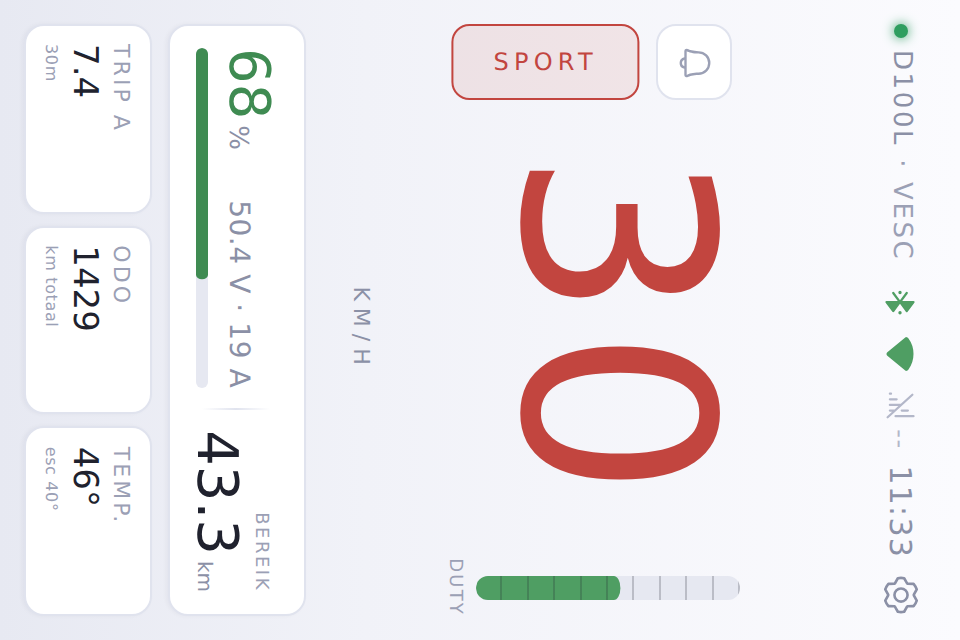
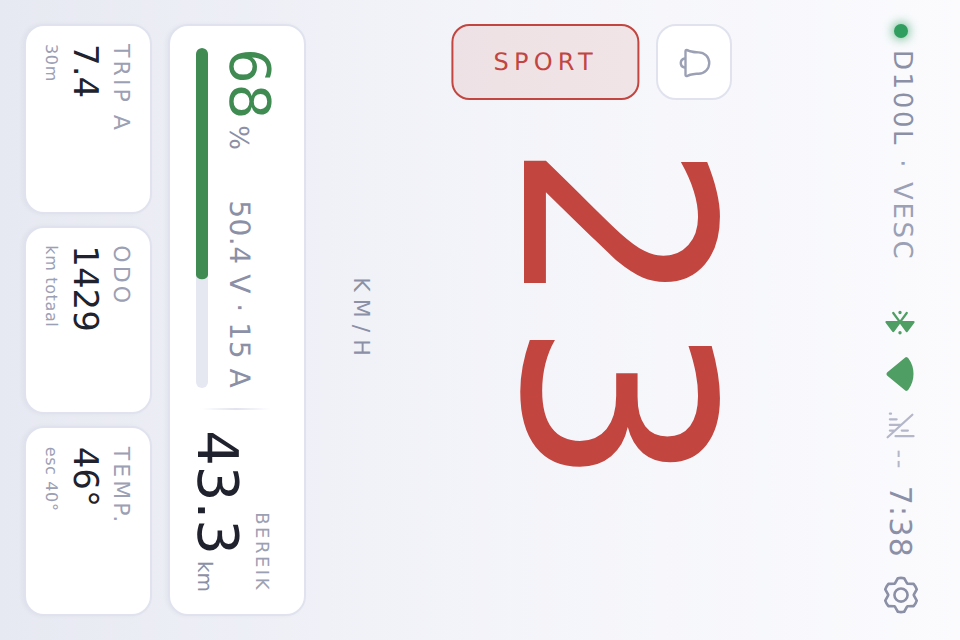
De duty-balk eruit, en knipperen alleen nog als er iets is
Twee dingen die samen het laatste drukke werk van het scherm halen.

De duty-balk is weg. Duty is een kommagetal dat bij élke meting verandert, dus
dat was het enige element dat hoe dan ook 6,7 keer per seconde naar het scherm
schreef — in zijn eentje goed voor de helft van de stijlherberekeningen. De
waarde zei bovendien weinig dat de snelheid niet al zei. Hij staat nog in
/data, mocht hij ooit terug moeten.

Zonder tegenwicht rechts zou het grote cijfer 24 px uit het midden van het
scherm hangen, dus staat de bel-kolom nu absoluut in de linkermarge in plaats
van in de flexrij.

Knipperen gebeurt alleen nog als er iets te melden is: een melding, een lege
accu, een klaarstaande update of een laadbeurt. Is er niets aan de hand, dan
schrijft de timer niets. Het stipje van de VESC knippert helemaal niet meer —
het staat vast groen bij verbinding en rood zonder, en dat zegt hetzelfde. Zo
betekent knipperen weer iets in plaats van dat het altijd aanstaat.

Gemeten met tools/bench.js, tien seconden per situatie:

                    stijl/s   layout/s
  rijden                  2          2   (was 62 en 39)
  met een melding         2          2
  laden                   2          2
  instellingen open       0          0
  stilstaand              0          0

Wat er overblijft is wat er echt verandert: V·A schrijft 1,1 keer per seconde
en de snelheid 0,9. Accu, temperaturen, kilometerstand, trip en bereik zijn
hele getallen en schreven in twintig seconden rijden niets.
[…]

diff --git a/pi/public/theme.css b/pi/public/theme.css
@@ -110,8 +110,18 @@ p{margin:0}
 /* ── rijscherm ───────────────────────────────────────────────────────────── */
 #ride{flex:1;min-height:0;display:flex;flex-direction:column;gap:8px}
 
-#ridemid{flex:1;min-height:0;display:flex;align-items:center;gap:10px}
-#railleft{flex:none;display:flex;flex-direction:column;align-items:center;gap:8px}
+/* De duty-balk stond hier rechts en is weg — hij veranderde als enige bij
+   elke meting en was daarmee het drukste element op het scherm, en de waarde
+   zei weinig dat de snelheid niet al zei. De duty staat nog wel in /data.
+
+   Daarom staat de bel-kolom nu absoluut in de linkermarge in plaats van in de
+   rij: zonder tegenwicht rechts zou het grote cijfer anders 24 px uit het
+   midden van het scherm hangen. */
+#ridemid{flex:1;min-height:0;position:relative;display:flex;align-items:center}
+#railleft{
+  position:absolute;left:0;top:0;bottom:0;z-index:1;
+  display:flex;flex-direction:column;align-items:center;justify-content:center;gap:8px;
+}
 
 #bell,#cruise{
   width:38px;height:38px;flex:none;
@@ -159,24 +169,6 @@ body[data-theme="night"] #modes .mode[data-mode="eco"].on{border-color:#4f9e63;b
 #speed.sport{color:var(--red)}
 #speedunit{margin-top:8px;font-size:11px;letter-spacing:.32em;text-transform:uppercase;color:var(--dim)}
 
-#railright{flex:none;display:flex;flex-direction:column;align-items:center;gap:6px}
-#dutytrack{position:relative;width:12px;height:132px;border-radius:99px;background:var(--track);overflow:hidden}
-/* Schalen, niet meten. Een hoogte in procenten laat de browser opnieuw
-   layouten; een transform gaat langs layout heen. En géén transitie: de
-   waarde komt al ruim zes keer per seconde binnen, dus er valt niets te
-   verzachten — een transitie van een kwart seconde zou betekenen dat deze
-   balk permanent staat te animeren, en dat is precies wat een SPI-schermpje
-   niet aankan. */
-#dutyfill{
-  position:absolute;left:0;right:0;bottom:0;height:100%;transform-origin:bottom;
-  transform:scaleY(0);border-radius:99px;background:var(--accent);
-}
-#dutyfill.hot{background:var(--orange)}
-#dutyfill.max{background:var(--red)}
-#dutytrack .ticks{
-  position:absolute;inset:0;
-  background:repeating-linear-gradient(to bottom,var(--tick) 0 1px,transparent 1px 13.2px);
-}
 .micro{font-size:9px;letter-spacing:.12em;text-transform:uppercase;color:var(--faint)}
 
 /* ── accu ────────────────────────────────────────────────────────────────── */
@@ -554,11 +546,12 @@ body[data-theme="night"] .alert.err{background:rgba(194,69,63,.14);border-color:
    ook als er verder niets verandert. Op deze pagina kostte alleen het stipje
    in de bovenbalk al negentien stijlherberekeningen per seconde, dag en nacht.
 
-   In plaats daarvan zet app.js twee keer per seconde .dim om op een handvol
-   elementen. Welke daarvan dan echt dimt bepaalt de CSS hieronder, zodat het
-   omzetten onvoorwaardelijk mag: twee stijlwijzigingen per seconde in plaats
-   van honderdtwintig. */
-#link.dim{opacity:.15}
+   In plaats daarvan zet app.js .dim om op een handvol elementen, twee keer per
+   seconde en alleen zolang er iets te melden is. Is er niets aan de hand, dan
+   schrijft hij niets en staat het scherm helemaal stil.
+
+   Het stipje van de VESC staat daarom vast: groen als de verbinding er is, rood
+   als hij weg is. Knipperen betekent nu weer iets. */
 #bell[data-lvl].dim{opacity:.35}
 #battrow.low.dim{opacity:.35}
 #updrow.avail.dim{opacity:.35}

diff --git a/pi/public/app.js b/pi/public/app.js
@@ -188,12 +188,6 @@ function paintRide() {
   txt("speedunit", uSpeed());
   cls("speed", "sport", (cfg.mode || "").toUpperCase() === "SPORT");
 
-  /* Duty. Wat de VESC meldt is al 0..1. */
-  var duty = Math.max(0, Math.min(1, d.duty || 0));
-  stijl($("dutyfill"), "transform", "scaleY(" + duty.toFixed(3) + ")");
-  cls("dutyfill", "hot", duty > 0.85 && duty <= 0.95);
-  cls("dutyfill", "max", duty > 0.95);
-
   /* Accu. */
   var pct = Math.max(0, Math.min(100, d.battery_pct || 0));
   wortel("--batt", battKleur(pct));
@@ -264,16 +258,35 @@ function tikKlok() {
 }
 
 /* Knipperen. Vroeger deed CSS dit met @keyframes, maar een oneindige animatie
-   laat de browser elke frame de stijl van dat element opnieuw uitrekenen —
-   ook als er niets verandert. Alleen het stipje in de bovenbalk kostte zo
-   negentien stijlherberekeningen per seconde.
+   laat de browser elke frame de stijl van dat element opnieuw uitrekenen, ook
+   als er niets verandert. Alleen het stipje in de bovenbalk kostte zo negentien
+   stijlherberekeningen per seconde.
 
-   Nu zet deze timer twee keer per seconde .dim om op vijf elementen. Welke
-   daarvan zichtbaar dimt bepaalt theme.css, dus dit mag onvoorwaardelijk. */
-var KNIPPERT = ["link", "bell", "battrow", "updrow", "chargeico"];
+   Nu doet één timer het, en alleen als er iets te melden valt. Is er niets aan
+   de hand, dan gebeurt er letterlijk niets meer op het scherm zolang de step
+   stilstaat — en heeft knipperen zijn betekenis terug: het gebeurt alleen als
+   het je aandacht wil.
+
+   Het stipje van de VESC knippert daarom niet meer. Het staat vast groen als de
+   verbinding er is en rood als hij weg is; dat zegt hetzelfde, en de klok en het
+   snelheidscijfer laten wel zien dat de pagina nog leeft. */
+var KNIPPERT = ["bell", "battrow", "updrow", "chargeico"];
 var dimAan = false;
+
+function ietsTeMelden() {
+  var b = $("bell"), r = $("battrow"), u = $("updrow");
+  return !!(b && b.dataset.lvl)
+    || !!(r && r.classList.contains("low"))
+    || !!(u && u.classList.contains("avail"))
+    || !!lagen.charge;
+}
+
 function knipper() {
-  dimAan = !dimAan;
+  var aan = ietsTeMelden();
+  /* Niets aan de hand en niets gedimd: dan hoeft er ook niets geschreven te
+     worden. Dit is de stille toestand waarin de UI helemaal stilvalt. */
+  if (!aan && !dimAan) return;
+  dimAan = aan ? !dimAan : false;
   for (var i = 0; i < KNIPPERT.length; i++) cls(KNIPPERT[i], "dim", dimAan);
 }
 

diff --git a/pi/tools/bench.js b/pi/tools/bench.js
@@ -35,6 +35,16 @@ const SITUATIES = [
 const TEL = ["RecalcStyleCount", "LayoutCount", "RecalcStyleDuration",
              "LayoutDuration", "ScriptDuration", "TaskDuration"];
 
+/* Van een schone stand vertrekken. Zonder dit meet je restjes van de vorige
+   proef mee — een blijven staan "update beschikbaar" laat de UI knipperen en
+   dat verdubbelt de uitslag. */
+const SCHOON = {
+  rotate: 90, theme: "day", lang: "nl", units: "metric", accent: "#4f9e63",
+  mode: "SPORT", limMotor: 120, limEsc: 110, limBatt: 70,
+  warnMotor: true, warnEsc: true, warnBatt: true,
+  packWh: 1147, whPerKm: 18, speedMax: 35, bright: 80
+};
+
 (async () => {
   const browser = await chromium.launch();
   const page = await browser.newPage({ viewport: { width: 320, height: 480 } });
@@ -51,6 +61,9 @@ const TEL = ["RecalcStyleCount", "LayoutCount", "RecalcStyleDuration",
   const rijen = [];
   for (const s of SITUATIES) {
     await page.request.post(BASIS + "/design/state", { data: { preset: s.preset } });
+    await page.request.post(BASIS + "/design/state", {
+      data: { patch: { settings: SCHOON, update: { available: false, message: "" } } }
+    });
     await page.goto(BASIS + "/", { waitUntil: "domcontentloaded" });
     await page.waitForTimeout(1500);
     if (s.open) await page.click(s.open, { force: true });

diff --git a/pi/public/index.html b/pi/public/index.html
@@ -96,10 +96,6 @@
         <span id="speedunit">km/h</span>
       </button>
 
-      <div id="railright">
-        <div id="dutytrack"><i id="dutyfill"></i><i class="ticks"></i></div>
-        <span class="micro">Duty</span>
-      </div>
     </div>
 
     <div id="battrow">

diff --git a/pi/tools/page.html b/pi/tools/page.html
@@ -50,10 +50,6 @@
         <span id="speedunit">km/h</span>
       </button>
 
-      <div id="railright">
-        <div id="dutytrack"><i id="dutyfill"></i><i class="ticks"></i></div>
-        <span class="micro">Duty</span>
-      </div>
     </div>
 
     <div id="battrow">

diff --git a/pi/README.md b/pi/README.md
@@ -427,8 +427,12 @@ design and are worth knowing before you move something:
   tall. That looks like a mistake and isn't: it's what pushes the unit down and
   keeps the number optically centred in the space above the battery.
 - `#speedbtn` is a flex item with `min-width: 0`. Without that the 132 px digits
-  set the minimum width of the whole row and the bell and the duty bar get pushed
+  set the minimum width of the whole row and everything beside them gets pushed
   off the screen. That is exactly what happened the first time.
+- **The bell column is absolutely positioned**, not a flex item. The design had a
+  duty bar on the right to balance it; that bar is gone, and in the flex row the
+  big number would then sit 24 px off the centre of the screen. Out of the flow,
+  the number is centred on the panel and the bell floats in the left margin.
 - **The keys** are ten per row on 296 px, so about 26 px wide, and 52 px tall.
   Narrow, but there's height to spare and you aim with your thumb vertically.
 - **The card labels** get about nine characters at 11 px with `.14em` of
@@ -463,20 +467,27 @@ at a time showed where that came from:
 So the actual work — read the data, write it to the screen — is those 4. The
 other 58 were decoration running in a loop. Three changes fixed it:
 
-- **The bars scale, they don't measure.** The duty bar animated `height` and
-  the battery bar `width`, both in percent. Those are layout properties: every
-  step makes the browser lay the page out again. They're
-  `transform: scaleY()` / `scaleX()` now, which skips layout entirely — and the
-  transition is gone with them. Data arrives 6.7 times a second; a quarter-second
-  transition on top of that means the bar is *permanently* animating, which is
-  the one thing an SPI display can't afford.
-- **Blinking comes from a timer, not from `@keyframes`.** An infinite CSS
-  animation makes Chromium recalculate that element's style every frame, even
-  with `steps()`, even when nothing changes. The blinking dot in the top bar
-  alone cost 19 recalculations a second, around the clock. `app.js` now toggles
-  a `.dim` class on five elements twice a second, and the CSS decides which of
-  them actually dims — two style changes a second instead of a hundred and
-  twenty.
+- **The bars scale, they don't measure.** The duty bar animated `height` and the
+  battery bar `width`, both in percent. Those are layout properties: every step
+  makes the browser lay the page out again. What's left uses
+  `transform: scaleX()`, which skips layout entirely — and the transition is gone
+  with it. Data arrives 6.7 times a second; a quarter-second transition on top of
+  that means the bar is *permanently* animating, which is the one thing an SPI
+  display can't afford.
+- **The duty bar is gone.** Duty is a float that changes on every single
+  measurement, so it was the one element that wrote to the screen 6.7 times a
+  second no matter what — halving the style recalculations all by itself. Speed,
+  battery and the temperatures move far more slowly and mostly write nothing.
+  It's still in `/data` if it ever needs to come back.
+- **Blinking comes from a timer, and only when there's something to say.** An
+  infinite CSS animation makes Chromium recalculate that element's style every
+  frame, even with `steps()`, even when nothing changes. The blinking dot in the
+  top bar alone cost 19 recalculations a second, around the clock. `app.js` now
+  toggles a `.dim` class twice a second — and skips even that when no
+  notification, low battery, update or charge is pending. The VESC dot doesn't
+  blink at all any more: it's solid green when the link is there and red when it
+  isn't, which says the same thing. Blinking means something again, and a normal
+  ride has none of it.
 - **Nothing is painted that you can't see.** With a full-screen sheet open, the
   ride screen underneath used to keep updating at 6.7 Hz. `show()` tracks which
   layers are open; `paintRide()` returns immediately when one covers it, and
@@ -488,15 +499,24 @@ On top of that, every style write goes through a guard that skips it when the
 value hasn't changed. Setting `style.width` to the same string still marks the
 element dirty.
 
-Measured again afterwards:
+Measured again afterwards — 62 and 39 became 2 and 2, and standing still the
+page does nothing at all:
 
 | | style/s | layout/s |
 |---|---|---|
-| riding | 8 | 4 |
+| riding | 2 | 2 |
 | riding with a notification | 2 | 2 |
 | charging | 2 | 2 |
-| settings open | 2 | 2 |
-| standing still | 2 | 2 |
+| settings open | 0 | 0 |
+| standing still | 0 | 0 |
+
+What's left is what actually changes. Watching the DOM for twenty seconds of
+riding: the `V · A` line writes 1.1 times a second and the speed 0.9, because
+those are the two numbers that genuinely move. Battery percent, the
+temperatures, the odometer, trip and range wrote nothing at all in that window —
+they're whole numbers that change every twenty seconds or so. Everything is
+*read* 6.7 times a second, all of it from the same `/data` request; the screen
+only follows where the value moved.
 
 One warning about the tool: an earlier version counted frames with
 `requestAnimationFrame`, which keeps the browser awake and then measures its
@@ -1070,8 +1090,13 @@ ontwerp en zijn goed om te weten voor je iets verschuift:
   hoog. Dat ziet eruit als een vergissing en is het niet: het is wat de eenheid
   omlaag duwt en het cijfer optisch midden in de ruimte boven de accu houdt.
 - `#speedbtn` is een flexitem met `min-width: 0`. Zonder dat bepalen de cijfers
-  van 132 px de minimumbreedte van de hele rij en worden de bel en de duty-balk
-  van het scherm geduwd. Precies dat gebeurde de eerste keer.
+  van 132 px de minimumbreedte van de hele rij en wordt alles ernaast van het
+  scherm geduwd. Precies dat gebeurde de eerste keer.
+- **De bel-kolom staat absoluut**, niet als flexitem. In het ontwerp gaf de
+  duty-balk rechts er tegenwicht aan; die balk is weg, en in de flexrij zou het
+  grote cijfer dan 24 px uit het midden van het scherm hangen. Uit de stroom
+  gehaald staat het cijfer midden op het paneel en zweeft de bel in de
+  linkermarge.
 - **De toetsen** zijn er tien per rij op 296 px, dus zo'n 26 px breed, en 52 px
   hoog. Smal, maar er is hoogte over en met je duim mik je verticaal.
 - **De kaartlabels** hebben ruimte voor zo'n negen tekens op 11 px met `.14em`
@@ -1108,18 +1133,25 @@ andere 58 waren opsmuk die in een lus doorliep. Drie wijzigingen losten het op:
 
 - **De balken schalen, ze meten niet.** De duty-balk animeerde `height` en de
   accubalk `width`, allebei in procenten. Dat zijn layout-eigenschappen: elke
-  stap laat de browser de pagina opnieuw indelen. Het zijn nu
-  `transform: scaleY()` en `scaleX()`, wat langs layout heen gaat — en de
-  transitie is meteen weg. De data komt 6,7 keer per seconde binnen; een
-  transitie van een kwart seconde daarbovenop betekent dat die balk *permanent*
-  staat te animeren, en dat is het enige wat een SPI-schermpje niet kan hebben.
-- **Knipperen komt uit een timer, niet uit `@keyframes`.** Een oneindige
-  CSS-animatie laat Chromium elke frame de stijl van dat element opnieuw
-  uitrekenen, ook met `steps()`, ook als er niets verandert. Alleen het
+  stap laat de browser de pagina opnieuw indelen. Wat er over is gebruikt
+  `transform: scaleX()`, wat langs layout heen gaat — en de transitie is meteen
+  weg. De data komt 6,7 keer per seconde binnen; een transitie van een kwart
+  seconde daarbovenop betekent dat die balk *permanent* staat te animeren, en
+  dat is het enige wat een SPI-schermpje niet kan hebben.
+- **De duty-balk is weg.** Duty is een kommagetal dat bij élke meting verandert,
+  dus dat was het enige element dat hoe dan ook 6,7 keer per seconde naar het
+  scherm schreef — goed voor de helft van alle stijlherberekeningen, in zijn
+  eentje. Snelheid, accu en de temperaturen bewegen veel trager en schrijven
+  meestal niets. Hij staat nog wel in `/data`, mocht hij ooit terug moeten.
+- **Knipperen komt uit een timer, en alleen als er iets te melden is.** Een
+  oneindige CSS-animatie laat Chromium elke frame de stijl van dat element
+  opnieuw uitrekenen, ook met `steps()`, ook als er niets verandert. Alleen het
   knipperende stipje in de bovenbalk kostte negentien herberekeningen per
   seconde, dag en nacht. `app.js` zet nu twee keer per seconde een `.dim`-klasse
-  om op vijf elementen, en de CSS bepaalt welke daarvan echt dimt — twee
-  stijlwijzigingen per seconde in plaats van honderdtwintig.
+  om — en slaat ook dát over als er geen melding, lege accu, update of laadbeurt
+  is. Het stipje van de VESC knippert helemaal niet meer: het staat vast groen
+  als de verbinding er is en rood als hij weg is, en dat zegt hetzelfde.
+  Knipperen betekent weer iets, en op een gewone rit gebeurt het niet.
 - **Er wordt niets getekend wat je niet ziet.** Met een scherm eroverheen liep
   het rijscherm eronder gewoon door op 6,7 Hz. `show()` houdt bij welke lagen
   open staan; `paintRide()` keert meteen terug zodra er een overheen ligt, en
@@ -1131,15 +1163,24 @@ Daarbovenop gaat elke stijlwijziging door een controle die hem overslaat als de
 waarde niet veranderd is. `style.width` op dezelfde tekenreeks zetten markeert
 het element namelijk alsnog als vuil.
 
-Daarna opnieuw gemeten:
+Daarna opnieuw gemeten — 62 en 39 werden 2 en 2, en stilstaand doet de pagina
+helemaal niets meer:
 
 | | stijl/s | layout/s |
 |---|---|---|
-| rijden | 8 | 4 |
+| rijden | 2 | 2 |
 | rijden met een melding | 2 | 2 |
 | laden | 2 | 2 |
-| instellingen open | 2 | 2 |
-| stilstaand | 2 | 2 |
+| instellingen open | 0 | 0 |
+| stilstaand | 0 | 0 |
+
+Wat er overblijft is wat er echt verandert. Twintig seconden rijden met een
+MutationObserver erop: de regel `V · A` schrijft 1,1 keer per seconde en de
+snelheid 0,9, want dat zijn de twee getallen die echt bewegen. Het accupercentage,
+de temperaturen, de kilometerstand, de trip en het bereik schreven in dat venster
+niets — dat zijn hele getallen die om de twintig seconden een stap doen. Alles
+wordt 6,7 keer per seconde *gelezen*, allemaal uit hetzelfde `/data`-verzoek; het
+scherm volgt alleen waar de waarde is opgeschoven.
 
 Eén waarschuwing over het gereedschap: een eerdere versie telde frames met
 `requestAnimationFrame`, en die lus houdt de browser zelf wakker en meet dan

diff --git a/README.md b/README.md
@@ -23,8 +23,8 @@ and I want to decide myself what goes on that screen.
 
 One screen while you ride: the speed big in the middle, the battery underneath
 it, and three cards with trip, odometer and temperatures. On the left rail sit
-the notification bell and the riding mode, on the right the duty bar. Everything
-else is a layer that slides over it.
+the notification bell and the riding mode. Everything else is a layer that
+slides over it.
 
 Tap the speed and you get the readout — current, top, average, and a timer for
 the trip. Tap the trip card and it flips to consumption in Wh/km. Tap the top
@@ -433,8 +433,7 @@ een houder — en ik wil zelf bepalen wat er op dat scherm staat.
 
 Eén scherm tijdens het rijden: de snelheid groot in het midden, de accu
 eronder, en drie kaarten met trip, kilometerstand en temperaturen. Links staan
-de meldingsbel en de rijmodus, rechts de duty-balk. Al de rest is een laag die
-eroverheen schuift.
+de meldingsbel en de rijmodus. Al de rest is een laag die eroverheen schuift.
 
 Tik op de snelheid en je krijgt de meting — huidig, maximum, gemiddeld, en een
 timer voor de rit. Tik op de trip-kaart en hij klapt om naar het verbruik in
